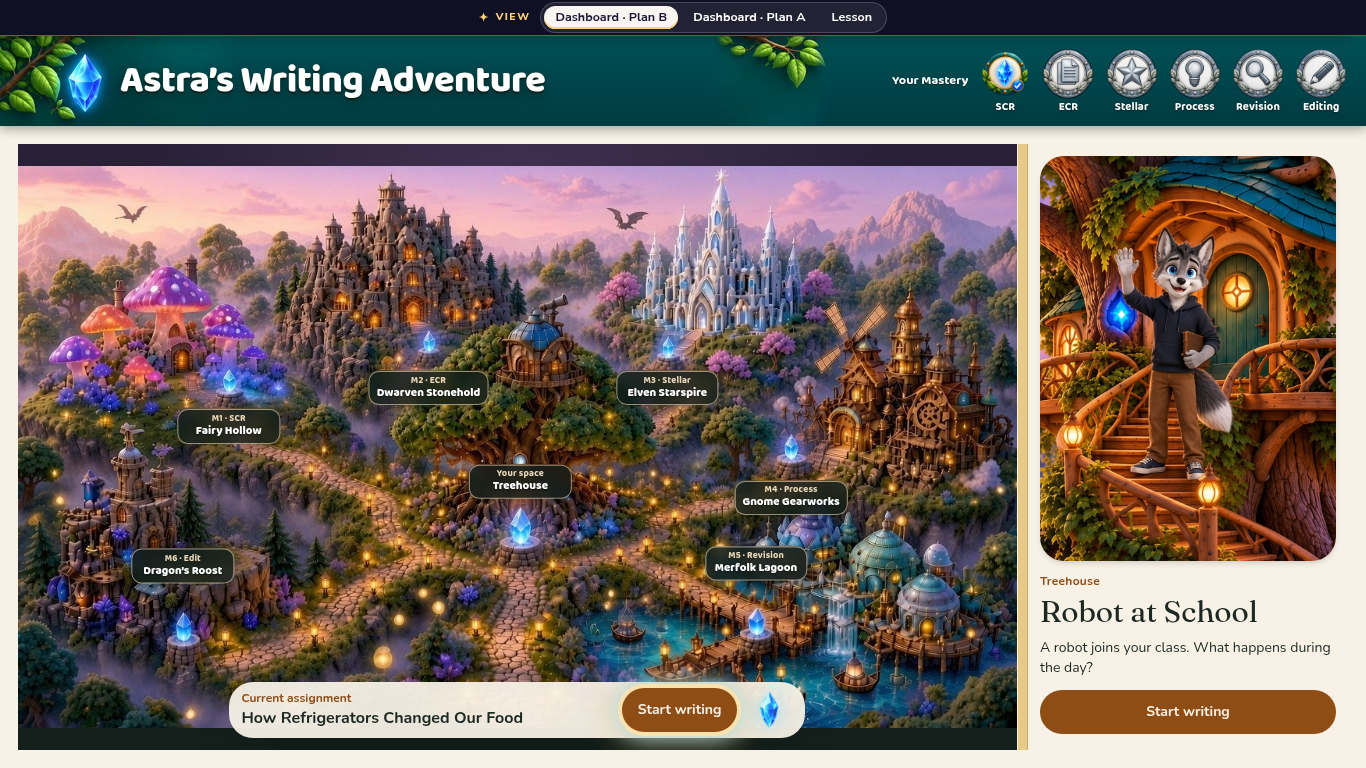
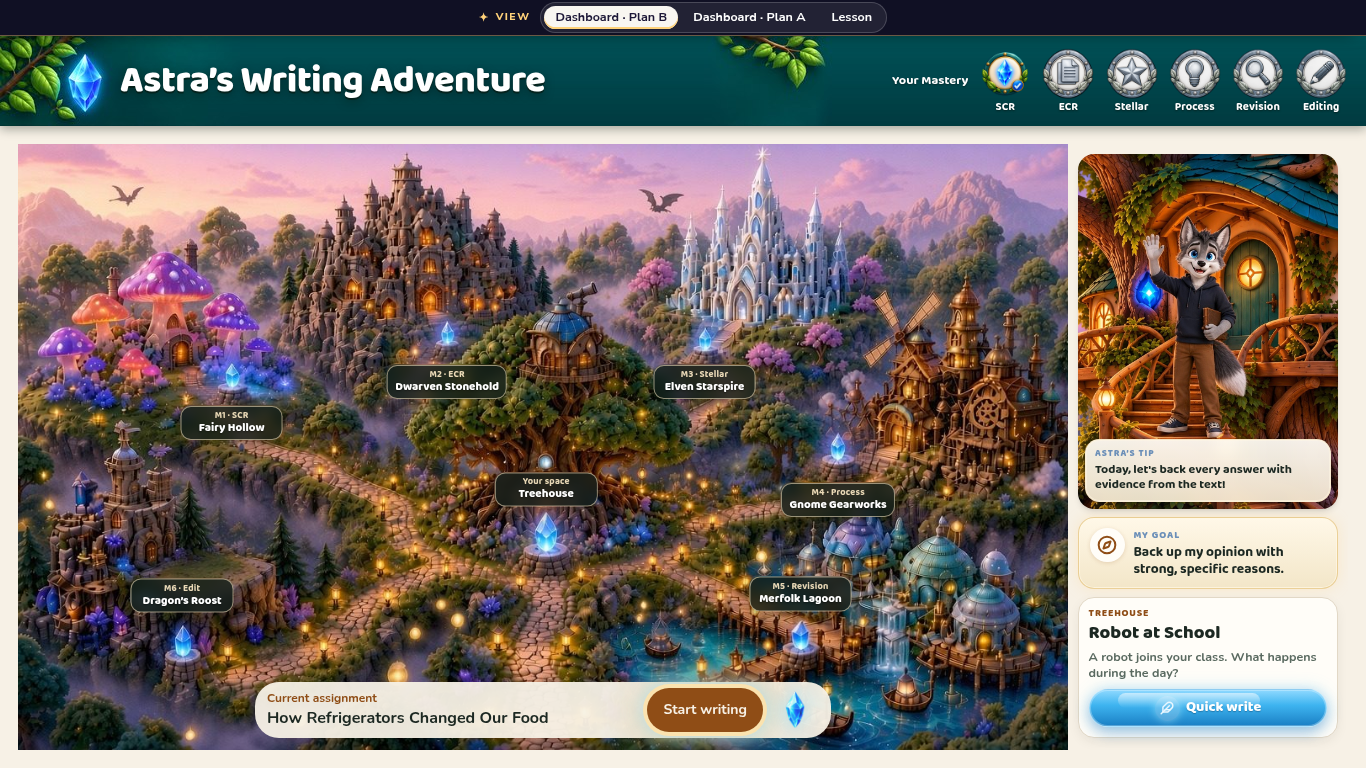
Plan B: drop divider, fill map, add tip and goal
Remove the gold pane break, cover-crop the kingdom map to fill the
panel, and bring Astra tip + My goal into the right column with a
crystal-blue Quick write button so the assignment bar keeps the
primary Start writing action.

diff --git a/student-dashboard/src/routes/index.tsx b/student-dashboard/src/routes/index.tsx
@@ -1,5 +1,5 @@
 import { createFileRoute } from "@tanstack/react-router";
-import { ArrowLeft, Check } from "lucide-react";
+import { ArrowLeft, Check, Compass, Feather } from "lucide-react";
 import { useState } from "react";
 
 export const Route = createFileRoute("/")({ component: StudentHome });
@@ -199,6 +199,9 @@ const savedAtStart: Writing[] = [
 ];
 
 // Public images live under the site's base path (/LunaV2.0/dashboard/ on GitHub Pages).
+const CLASS_FOCUS = "Today, let's back every answer with evidence from the text!";
+const MY_GOAL = "Back up my opinion with strong, specific reasons.";
+
 const asset = (file: string) => `${import.meta.env.BASE_URL}${file}`;
 
 const STAGE_W = 1366;
@@ -602,7 +605,6 @@ function StudentHome() {
         </section>
       ) : null}
       </div>
-      <div className="pane-break" aria-hidden="true" />
       <QuickWrite onStart={startQuickWrite} />
       </div>
       </div>
@@ -612,24 +614,38 @@ function StudentHome() {
 
 function QuickWrite({ onStart }: { onStart: () => void }) {
   return (
-    <aside className="flex w-80 shrink-0 flex-col bg-cream px-3 pt-3 pb-4 text-ink">
-      <div className="relative min-h-0 flex-1 overflow-hidden rounded-3xl shadow-md">
+    <aside className="planb-guide flex w-[17.5rem] shrink-0 flex-col gap-2 bg-cream px-2.5 pt-2.5 pb-3 text-ink">
+      <div className="planb-astra relative min-h-0 flex-[1.15] overflow-hidden rounded-2xl shadow-md">
         <img
           src={asset("astra-treehouse.jpg")}
           alt="Astra the wolf waving from the stairs of his treehouse"
-          className="absolute inset-0 h-full w-full object-cover object-center"
+          className="absolute inset-0 h-full w-full object-cover object-[center_18%]"
         />
+        <div className="planb-tip-bubble">
+          <p className="planb-tip-label">Astra’s tip</p>
+          <p className="planb-tip-text">{CLASS_FOCUS}</p>
+        </div>
       </div>
-      <div className="pt-3">
-        <p className="text-xs font-bold tracking-wide text-lantern">Treehouse</p>
-        <h2 className="mt-1 font-display text-3xl leading-tight">Robot at School</h2>
-        <p className="mt-2 text-sm">A robot joins your class. What happens during the day?</p>
-        <button
-          type="button"
-          onClick={onStart}
-          className="mt-3 inline-flex min-h-11 w-full items-center justify-center rounded-full bg-lantern text-sm font-bold text-cream"
-        >
-          Start writing
+
+      <div className="goal-compass">
+        <div className="goal-compass-icon" aria-hidden="true">
+          <Compass className="size-5" strokeWidth={2.4} />
+        </div>
+        <div className="min-w-0">
+          <p className="goal-compass-label">My goal</p>
+          <p className="goal-compass-text">{MY_GOAL}</p>
+        </div>
+      </div>
+
+      <div className="planb-quest">
+        <p className="planb-quest-label">Treehouse</p>
+        <h2 className="planb-quest-title">Robot at School</h2>
+        <p className="planb-quest-body">A robot joins your class. What happens during the day?</p>
+        <button type="button" onClick={onStart} className="crystal-btn mt-2">
+          <span className="crystal-btn-icon" aria-hidden="true">
+            <Feather className="size-3.5" strokeWidth={2.5} />
+          </span>
+          Quick write
         </button>
       </div>
     </aside>

diff --git a/student-dashboard/src/styles.css b/student-dashboard/src/styles.css
@@ -991,23 +991,20 @@
   .kingdom-scene {
     position: absolute;
     inset: 0;
-    display: grid;
-    place-items: center;
+    overflow: hidden;
     container-type: size;
-    padding: 0.6% 0.8% 1.4%;
-    box-sizing: border-box;
-    background:
-      radial-gradient(ellipse at 50% 20%, rgb(120 90 140 / 0.35), transparent 55%),
-      linear-gradient(180deg, #2a2038 0%, #1a1828 50%, #14201c 100%);
+    background: #1a1828;
   }
 
+  /* Cover-crop the 16:9 art so it fills the panel; hotspots stay on the frame */
   .kingdom-scene-frame {
-    position: relative;
+    position: absolute;
+    left: 50%;
+    top: 50%;
+    translate: -50% -50%;
     aspect-ratio: 16 / 9;
-    width: min(100cqw, calc(100cqh * 16 / 9));
+    width: max(100cqw, calc(100cqh * 16 / 9));
     height: auto;
-    max-width: 100%;
-    max-height: 100%;
   }
 
   .kingdom-scene-img {
@@ -1112,4 +1109,92 @@
   .kingdom-hotspot:focus-visible .kingdom-plate {
     border-color: rgb(255 246 220 / 0.95);
     background: rgb(20 32 28 / 0.9);
+  }
+
+
+  /* ——— Plan B right panel: tip + goal + compact quest ——— */
+  .planb-guide {
+    min-height: 0;
+    overflow: hidden;
+  }
+
+  .planb-astra {
+    min-height: 9.5rem;
+  }
+
+  .planb-tip-bubble {
+    position: absolute;
+    z-index: 2;
+    right: 0.45rem;
+    bottom: 0.45rem;
+    left: 0.45rem;
+    border-radius: 0.9rem;
+    border: 1px solid rgb(255 236 200 / 0.55);
+    background:
+      linear-gradient(180deg, rgb(255 252 245 / 0.94) 0%, rgb(247 236 214 / 0.92) 100%);
+    padding: 0.4rem 0.55rem 0.45rem;
+    box-shadow:
+      0 8px 18px rgb(12 16 24 / 0.28),
+      0 0 0 1px rgb(255 248 230 / 0.5) inset;
+    backdrop-filter: blur(8px);
+  }
+
+  .planb-tip-label {
+    margin: 0;
+    font-family: "Baloo 2", "Nunito", var(--font-sans);
+    font-size: 0.58rem;
+    font-weight: 800;
+    letter-spacing: 0.1em;
+    text-transform: uppercase;
+    color: #6b8fb8;
+  }
+
+  .planb-tip-text {
+    margin: 0.12rem 0 0;
+    font-family: "Baloo 2", "Nunito", var(--font-sans);
+    font-size: 0.78rem;
+    font-weight: 700;
+    line-height: 1.25;
+    color: var(--color-ink);
+  }
+
+  .planb-quest {
+    flex-shrink: 0;
+    border-radius: 1rem;
+    border: 1px solid var(--color-line);
+    background: #fffdf8;
+    padding: 0.5rem 0.6rem 0.6rem;
+    box-shadow: 0 4px 12px rgb(28 40 34 / 0.06);
+  }
+
+  .planb-quest-label {
+    margin: 0;
+    font-family: "Baloo 2", "Nunito", var(--font-sans);
+    font-size: 0.62rem;
+    font-weight: 800;
+    letter-spacing: 0.08em;
+    text-transform: uppercase;
+    color: var(--color-lantern);
+  }
+
+  .planb-quest-title {
+    margin: 0.15rem 0 0;
+    font-family: "Baloo 2", "Nunito", var(--font-sans);
+    font-size: 1.15rem;
+    font-weight: 800;
+    line-height: 1.15;
+    color: var(--color-ink);
+  }
+
+  .planb-quest-body {
+    margin: 0.25rem 0 0;
+    font-size: 0.78rem;
+    font-weight: 700;
+    line-height: 1.3;
+    color: var(--color-muted);
+  }
+
+  .planb-quest .crystal-btn {
+    min-height: 2.4rem;
+    font-size: 0.9rem;
   }
